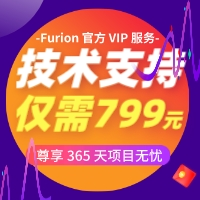
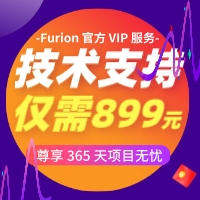
😊 通过 `Jenkins` 发布 `v4.9.1.2` 版本文档

Changed region(s): [[0.06, 0.24, 0.93, 0.45], [0.06, 0.48, 0.93, 0.66], [0.36, 0.3, 0.39, 0.33]]

diff --git a/handbook/docusaurus.config.js b/handbook/docusaurus.config.js
@@ -23,7 +23,7 @@ module.exports = {
     announcementBar: {
       id: "vip",
       content:
-        "⭐️ 开通 VIP 服务仅需 <s>799 元</s>(<b>限时特价 599 元</b>)，尊享 365 天项目无忧 <a href='/docs/subscribe' style='background-color:rgb(199, 29, 36);color:#ffffff;padding:1px 10px;border-radius:3px;text-decoration:none;display:inline-block;margin:0 5px;font-size:12px;cursor:pointer;'>立即开通</a>⭐️",
+        "⭐️ 开通 VIP 服务仅需 <s>899 元</s>(<b>限时特价 599 元</b>)，尊享 365 天项目无忧 <a href='/docs/subscribe' style='background-color:rgb(199, 29, 36);color:#ffffff;padding:1px 10px;border-radius:3px;text-decoration:none;display:inline-block;margin:0 5px;font-size:12px;cursor:pointer;'>立即开通</a>⭐️",
       backgroundColor: "#4623d9",
       textColor: "yellow",
       isCloseable: false,

diff --git a/handbook/src/components/FloatBar.js b/handbook/src/components/FloatBar.js
@@ -27,7 +27,7 @@ export default function FloatBar() {
             <div style={{ flex: 1 }}>
               <div className={styles.itemTitle}>⭐️ VIP 服务 ⭐️</div>
               <div className={styles.itemDesc}>
-                仅需 799 元，尊享 365 天项目无忧
+                仅需 899 元，尊享 365 天项目无忧
               </div>
             </div>
             <div className={styles.jiantou}></div>

diff --git a/handbook/src/components/Vip.js b/handbook/src/components/Vip.js
@@ -49,7 +49,7 @@ export default function Vip({ style, closable = true }) {
       <Link
         to={useBaseUrl("docs/subscribe")}
         style={{ display: "block" }}
-        title="⭐️ 开通 VIP 服务仅需 799 元，尊享 365 天项目无忧 ⭐️"
+        title="⭐️ 开通 VIP 服务仅需 899 元，尊享 365 天项目无忧 ⭐️"
       >
         <img
           src={useBaseUrl("img/cmp-vip.jpeg")}

diff --git a/handbook/src/pages/index.js b/handbook/src/pages/index.js
@@ -133,7 +133,7 @@ function Banner() {
                 title="VIP 服务"
               >
                 VIP 服务
-                <span className="furion-version">799元/年</span>
+                <span className="furion-version">899元/年</span>
               </Link>
             </Tooltip>
           </div>

diff --git a/handbook/src/theme/DocItem/Footer/index.js b/handbook/src/theme/DocItem/Footer/index.js
@@ -121,7 +121,7 @@ export default function DocItemFooter() {
                   textDecoration: "underline",
                 }}
               >
-                开通 VIP 服务仅需 799 元，尊享 365 天项目无忧
+                开通 VIP 服务仅需 899 元，尊享 365 天项目无忧
               </Link>{" "}
               ⭐️
             </div>

diff --git a/handbook/src/theme/DocRoot/Layout/Main/index.js b/handbook/src/theme/DocRoot/Layout/Main/index.js
@@ -65,7 +65,7 @@ function Notice() {
 
   return (
     <div className={clsx(styles.notice, isDarkTheme && styles.noticeDark)}>
-      ⭐️ 开通 VIP 服务仅需 <s>799 元</s>(<b>限时特价 599 元</b>)，尊享 365
+      ⭐️ 开通 VIP 服务仅需 <s>899 元</s>(<b>限时特价 599 元</b>)，尊享 365
       天项目无忧{" "}
       <Link to={useBaseUrl("/docs/subscribe")} className={styles.tip}>
         立即开通

diff --git a/handbook/src/theme/Root.js b/handbook/src/theme/Root.js
@@ -141,7 +141,7 @@ function Root({ children }) {
             }}
             onClick={() => setDonate(false)}
           >
-            开通 VIP 服务仅需 799 元，尊享 365 天项目无忧
+            开通 VIP 服务仅需 899 元，尊享 365 天项目无忧
           </Link>{" "}
           ⭐️
         </div>